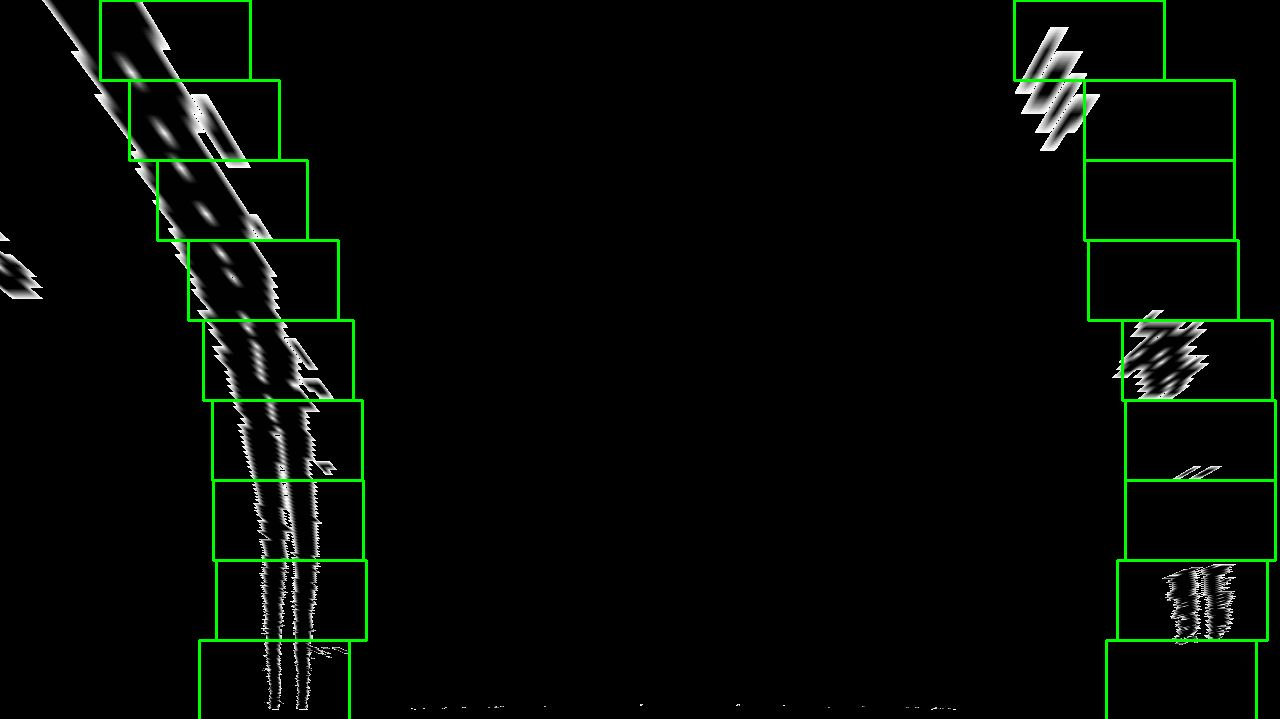
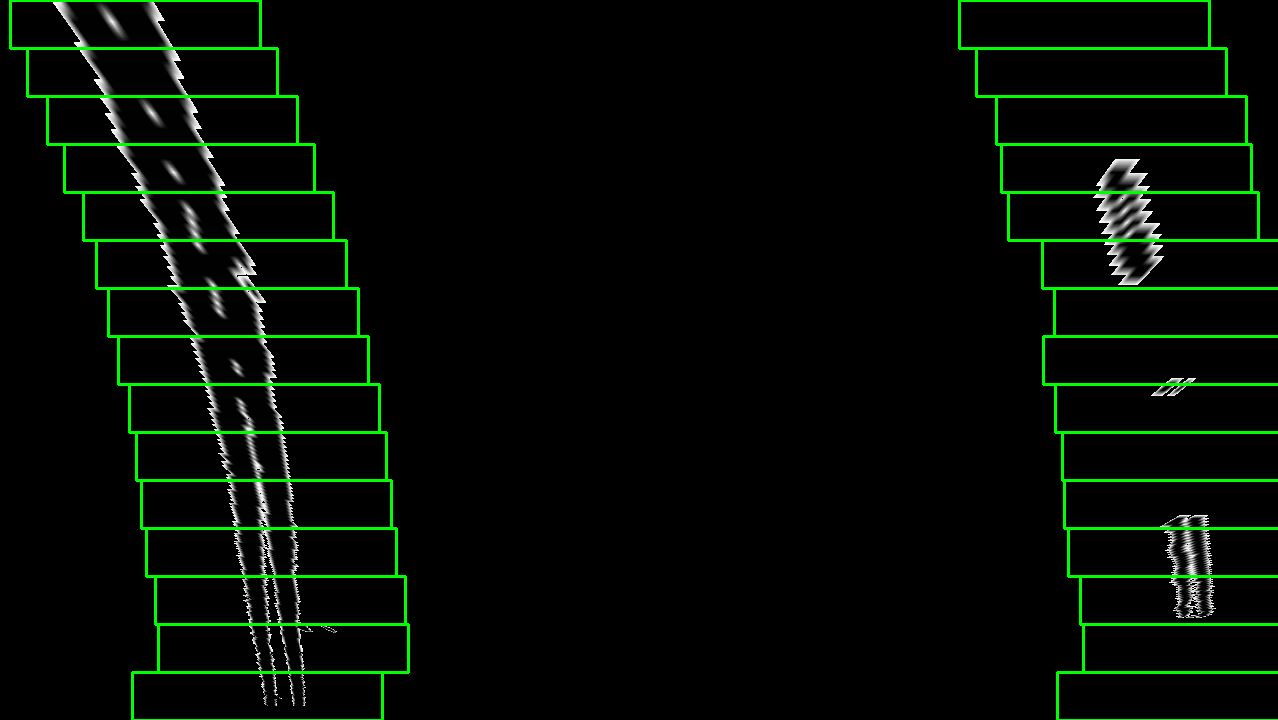
Updated windows method description

Changed region(s): [[0.0, 0.0, 0.3357, 1.0], [0.7324, 0.0, 1.0, 1.0], [0.0, 0.3366, 0.0305, 0.4284]]

diff --git a/writeup/README.md b/writeup/README.md
@@ -139,6 +139,13 @@ See the result below:
 
 ![Windows][image6]
 
+The sliding window methodology was improved upon from the classroom exercises in the following ways:
+
+* If a current best fit polynomial was already defined for the line, the start points were solved for by the equation instead of a histogram.
+* Limits to road width were implemented, that way the function was discouraged to follow noise on the inside or outside of the road lines.
+* If the left or right lane window did not detect the minium amount of pixels, it would adjust its position in the next window by the same amount the other lane moved.  This was especially helpful when one line was solid and another was segmented, as it would continue the windows in the direction of the line even if the window did not capture a segment.
+
+
 #### 5. Describe how (and identify where in your code) you calculated the radius of curvature of the lane and the position of the vehicle with respect to center.
 
 The function [get_radius()](../lane_detect_processor.py#L476) was developed to find the radius of a line regardless of physical units, and it was called from [draw_status()](../lane_detect_processor.py#L519) after plotted points from the original polynomial were scalled to real world units.
